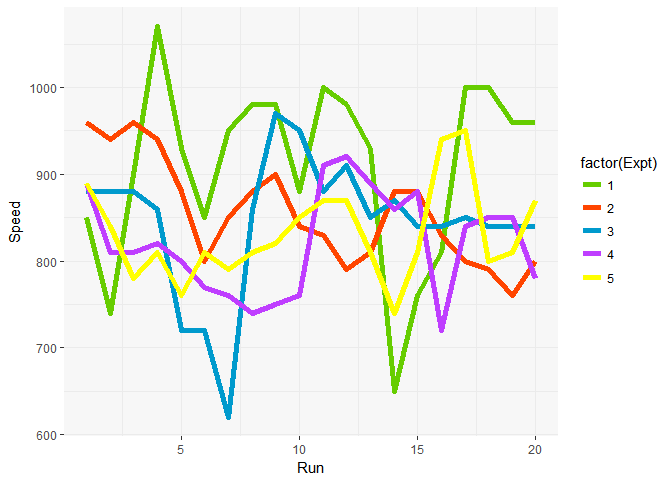
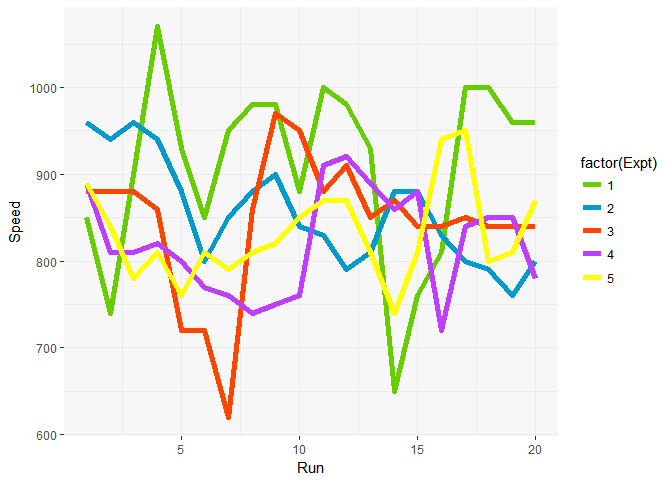
added better examples, reordered colors

diff --git a/README.md b/README.md
@@ -17,10 +17,27 @@ Install `jcolors` from GitHub:
 devtools::install_github("jaredhuling/jcolors")
 ```
 
+Access the `jcolors` color palettes with `jcolors()`:
+
 
 ```r
 library(jcolors)
+
+jcolors('default')
+```
+
+```
+##  chartreuse3 deepskyblue3    orangered  darkorchid1       yellow 
+##    "#66CD00"    "#009ACD"    "#FF4500"    "#BF3EFF"    "#FFFF00"
+```
+
+
+Now use `scale_color_jcolors()` with `ggplot2`:
+
+
+```r
 library(ggplot2)
+
 data(morley)
 
 pltl <- ggplot(data = morley, aes(x = Run, y = Speed,
@@ -44,13 +61,13 @@ colour = factor(Expt))) +
 pltl + scale_color_jcolors(palette = "default")
 ```
 
-![](vignettes/unnamed-chunk-2-1.png)<!-- -->
+![](vignettes/unnamed-chunk-3-1.png)<!-- -->
 
 ```r
 pltd + scale_color_jcolors(palette = "default")
 ```
 
-![](vignettes/unnamed-chunk-2-2.png)<!-- -->
+![](vignettes/unnamed-chunk-3-2.png)<!-- -->
 
 Color palettes can be displayed using `display_jcolors()`
 
@@ -59,4 +76,4 @@ Color palettes can be displayed using `display_jcolors()`
 display_jcolors("default")
 ```
 
-![](vignettes/unnamed-chunk-3-1.png)<!-- -->
+![](vignettes/unnamed-chunk-4-1.png)<!-- -->
